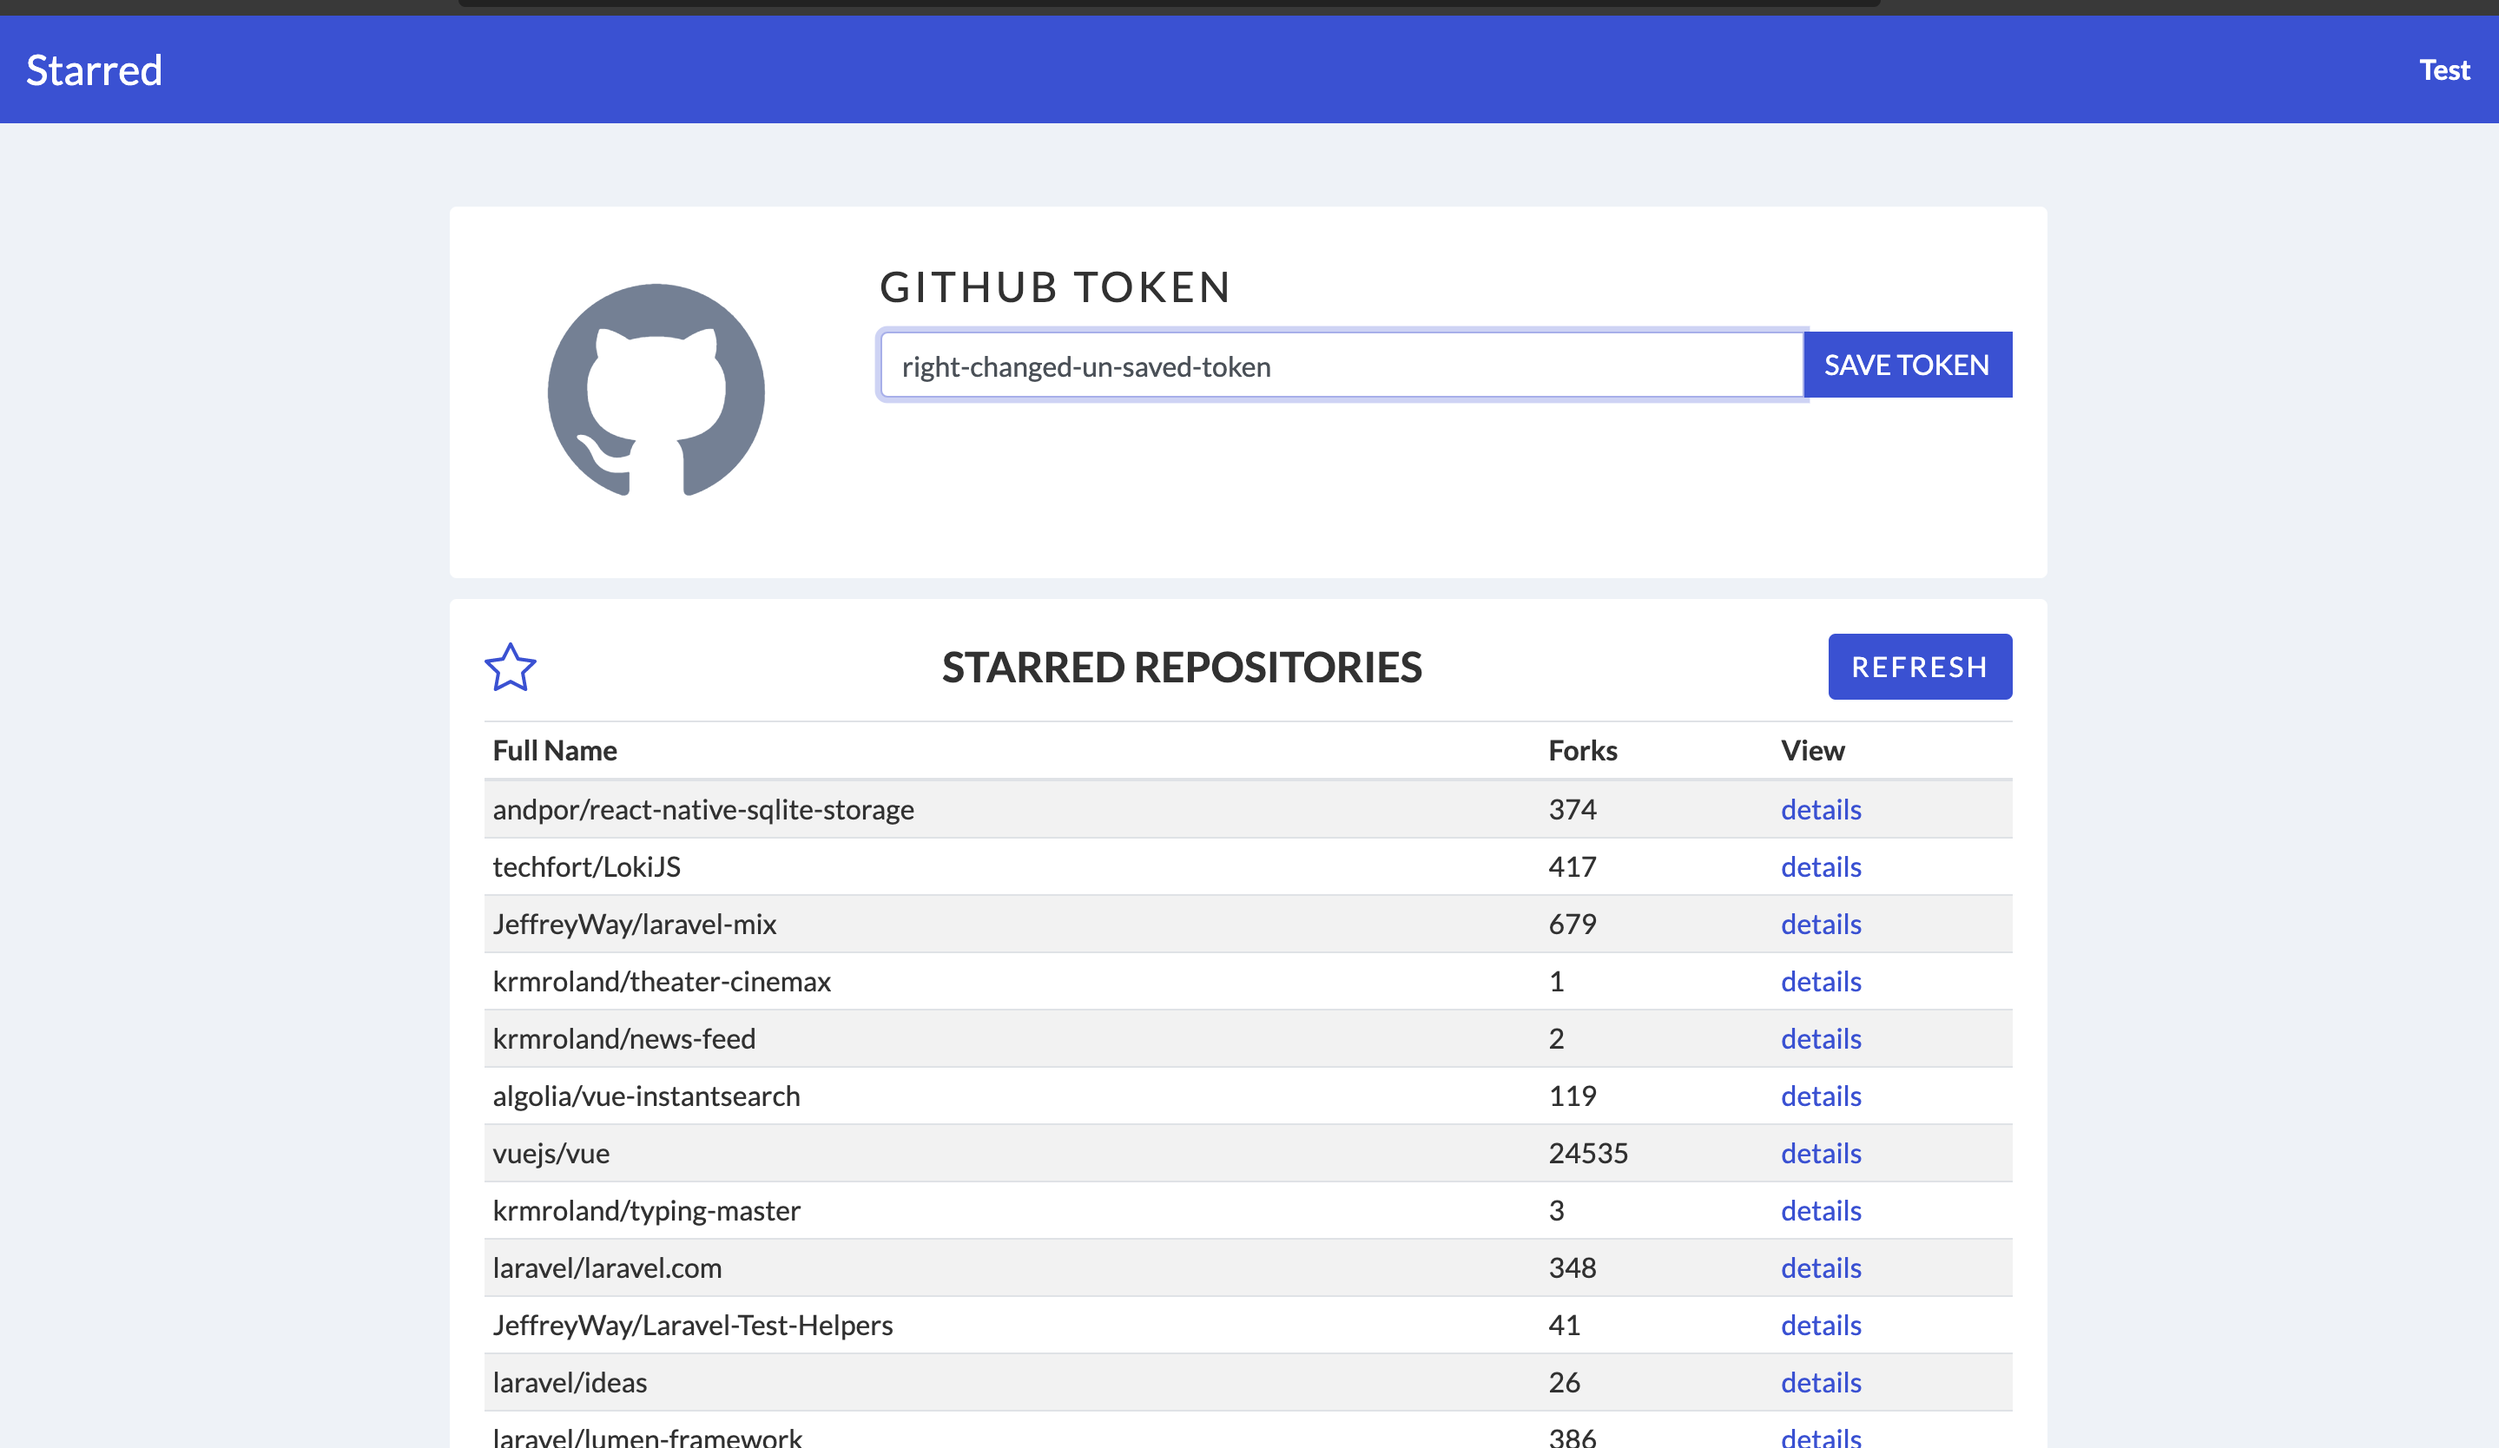
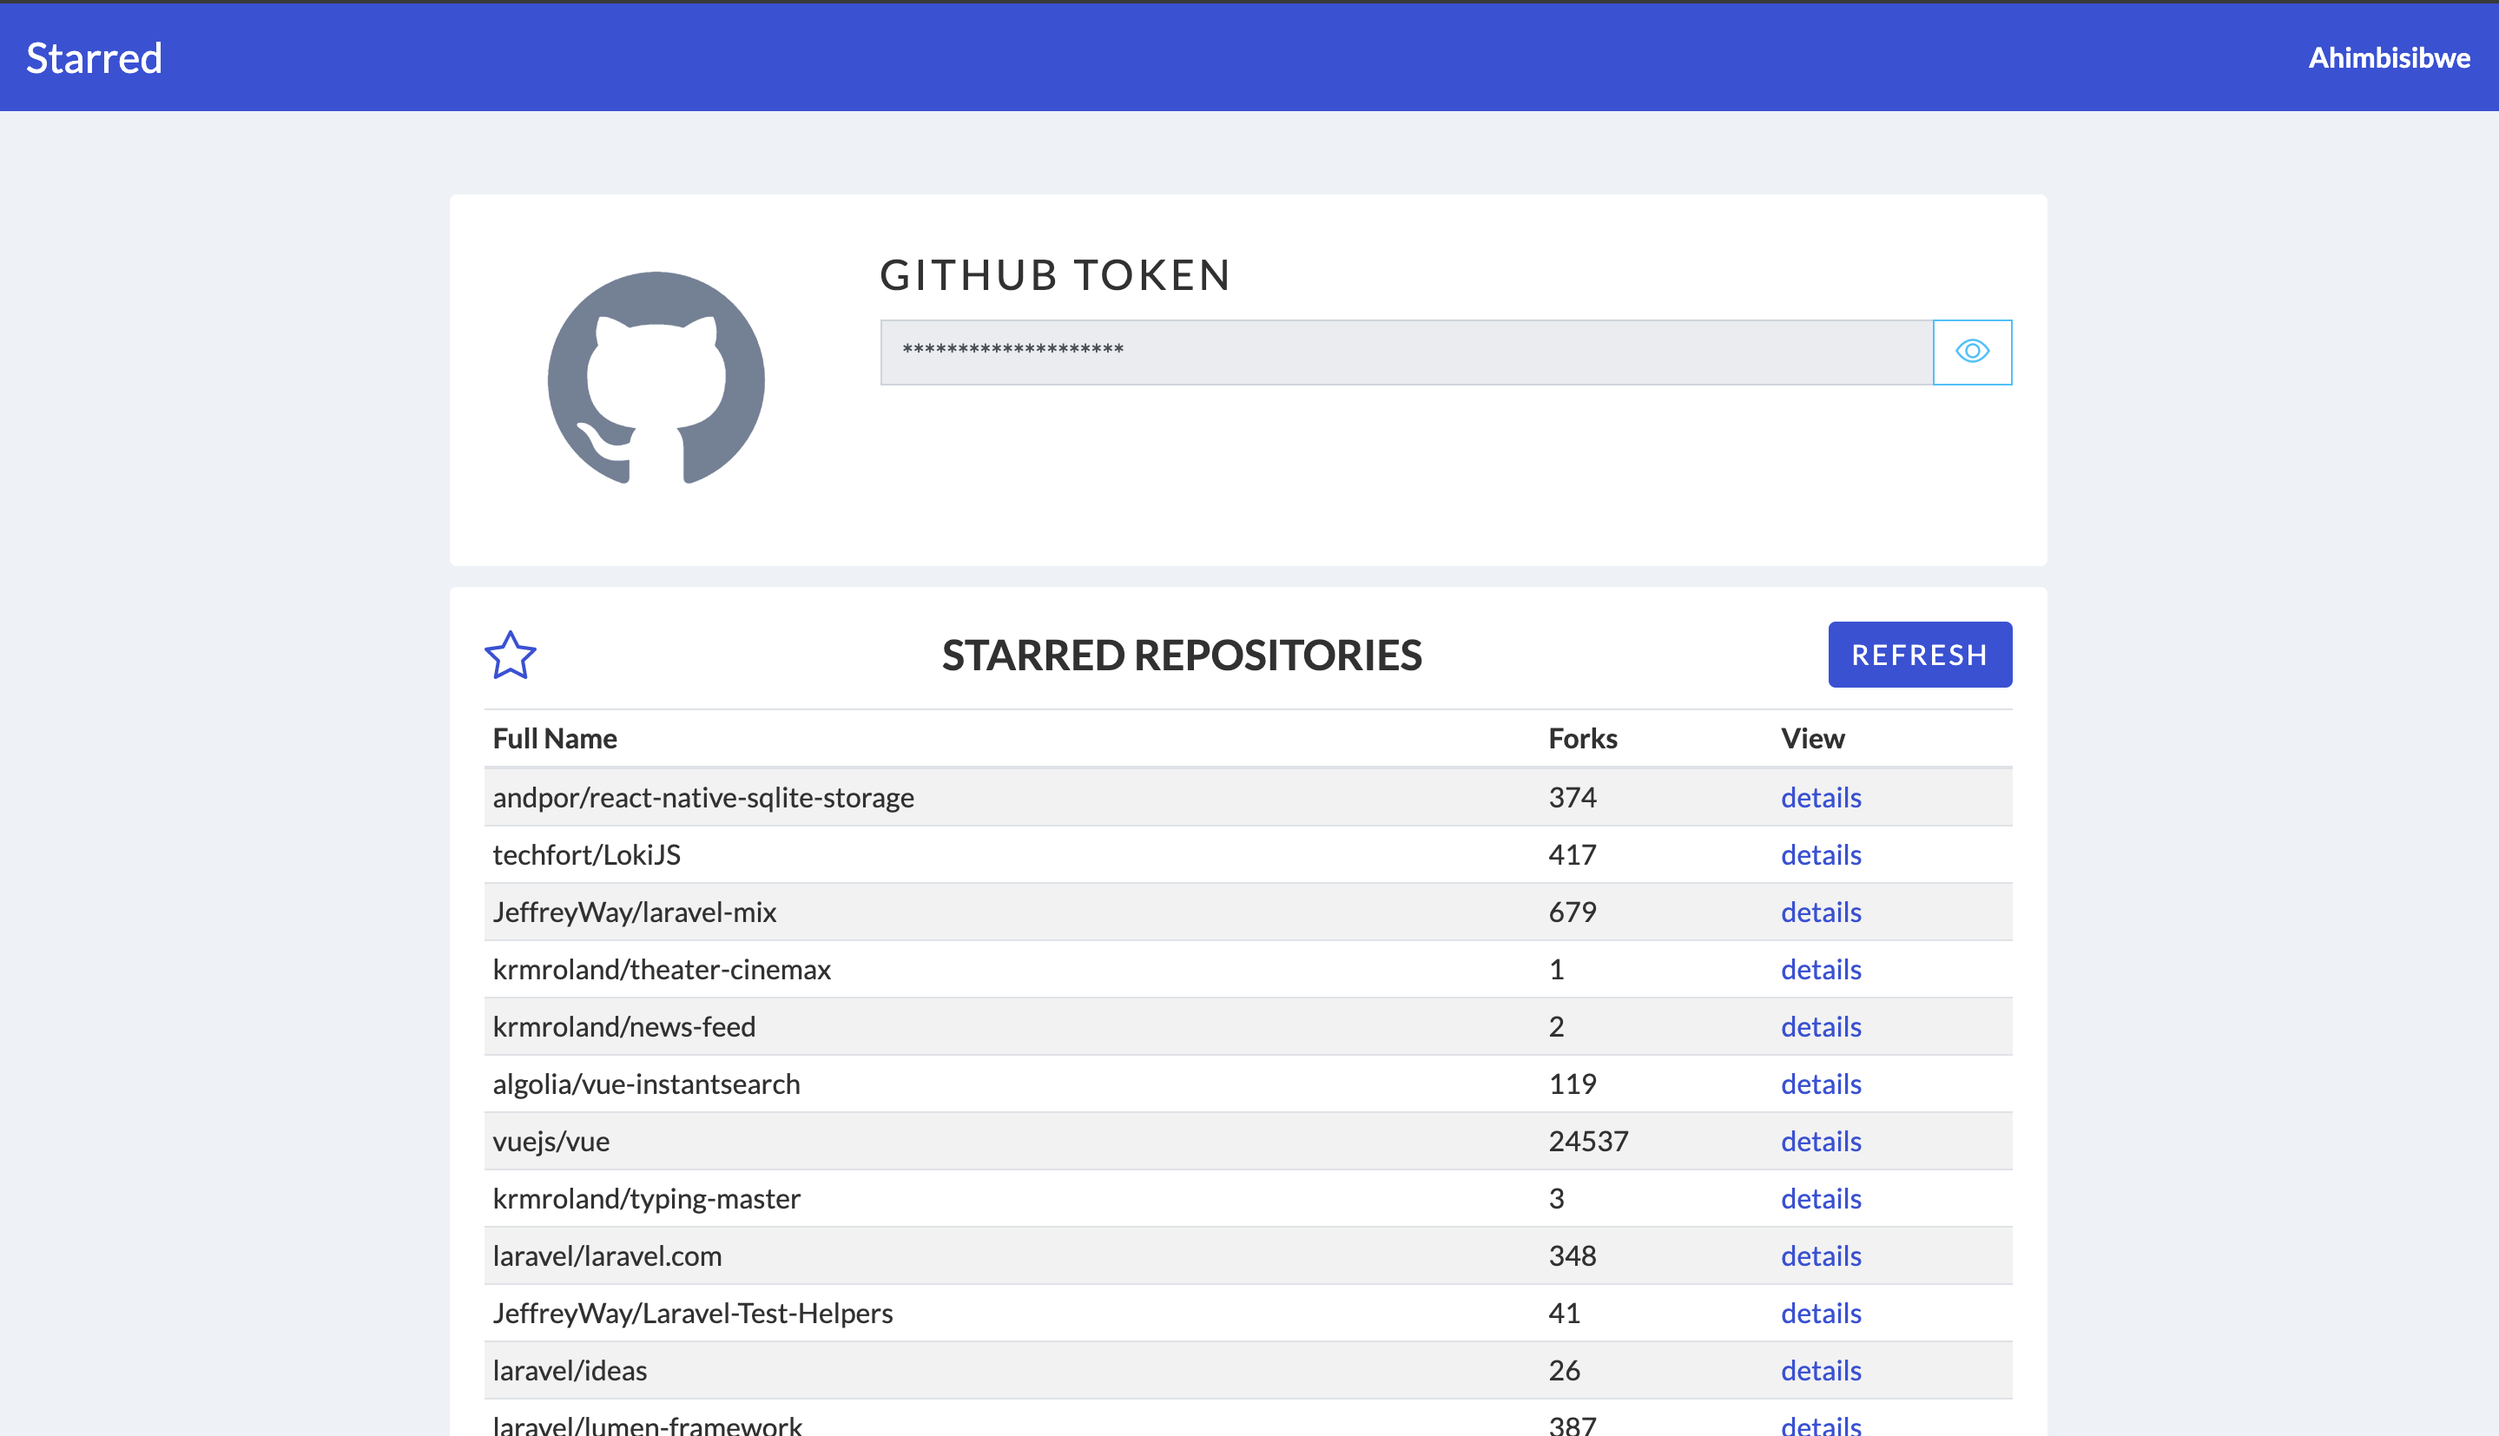
allow users to turn on and off token visibilty

diff --git a/resources/ui/app/token.vue b/resources/ui/app/token.vue
@@ -41,21 +41,39 @@
 
         <div class="tw-mt-3" v-if="currentToken || isShowingForm">
           <h2 class="tw-text-left tw-mb-3 tw-text-2xl tw-tracking-widest">GITHUB TOKEN</h2>
-          <b-input-group>
-            <b-form-input placeholder="Paste token here" v-model="token"></b-form-input>
-            <template v-slot:append>
-              <b-button
-                variant="primary"
-                :disabled="!canSubmit"
+          <b-form-group>
+            <b-input-group>
+              <b-form-input
+                placeholder="Paste token here"
                 class="tw-rounded-none"
-                :loading="true"
-                @click="submitToken"
-              >
-                <b-spinner small v-if="isSubmitting"></b-spinner>
-                <span>SAVE TOKEN</span>
-              </b-button>
-            </template>
-          </b-input-group>
+                v-model="visibleToken"
+                :disabled="!isVisible"
+              ></b-form-input>
+              <template v-slot:append>
+                <b-button
+                  variant="outline-info"
+                  class="tw-rounded-none"
+                  @click="isVisible = !isVisible"
+                >
+                  <b-icon-eye-slash v-if="isVisible" />
+                  <b-icon-eye v-else />
+                </b-button>
+              </template>
+            </b-input-group>
+          </b-form-group>
+
+          <b-form-group v-if="isVisible" class="tw-text-left">
+            <b-button
+              variant="primary"
+              :disabled="!canSubmit"
+              class="tw-rounded-none"
+              :loading="true"
+              @click="submitToken"
+            >
+              <b-spinner small v-if="isSubmitting"></b-spinner>
+              <span>SAVE TOKEN</span>
+            </b-button>
+          </b-form-group>
         </div>
       </b-col>
     </b-row>
@@ -75,6 +93,7 @@ export default {
       token: this.currentToken,
       isSubmitting: false,
       notification: null,
+      isVisible: false,
     };
   },
   computed: {
@@ -86,7 +105,19 @@ export default {
         (!this.token || String(this.token).length > 10)
       );
     },
+    maskedToken() {
+      return String('*').repeat(20);
+    },
+    visibleToken: {
+      get() {
+        return this.isVisible ? this.token : this.maskedToken;
+      },
+      set(value) {
+        this.token = value;
+      },
+    },
   },
+
   methods: {
     cancel() {
       this.isShowingForm = false;
@@ -100,6 +131,7 @@ export default {
         .then(() => {
           this.isSubmitting = false;
           this.isShowingForm = false;
+          this.isVisible = false;
           const deletedToken = !this.token;
           this.notification = {
             type: deletedToken ? 'warning' : 'success',

diff --git a/resources/ui/components/global/icons.js b/resources/ui/components/global/icons.js
@@ -1,5 +1,8 @@
 import Vue from 'vue';
-import { IconsPlugin, BIconShieldLock } from 'bootstrap-vue';
-Vue.use(IconsPlugin);
+import { BIconStar, BIconShieldLock, BIconEye, BIconEyeSlash } from 'bootstrap-vue';
+//Vue.use(IconsPlugin);
 
 Vue.component('BIconShieldLock', BIconShieldLock);
+Vue.component('BIconStar', BIconStar);
+Vue.component('BIconEye', BIconEye);
+Vue.component('BIconEyeSlash', BIconEyeSlash);

diff --git a/README.md b/README.md
@@ -13,6 +13,7 @@
 ![Screen shot](docs/screenshots/dashboard.png)
 ![Screen shot](docs/screenshots/dashboard-new-token.png)
 ![Screen shot](docs/screenshots/dashboard-update-token.png)
+![Screen shot](docs/screenshots/dashboard-fetching.png)
 ![Screen shot](docs/screenshots/dashboard-successful-fetch.png)
 ![Screen shot](docs/screenshots/dashboard-error-fetch.png)
 
